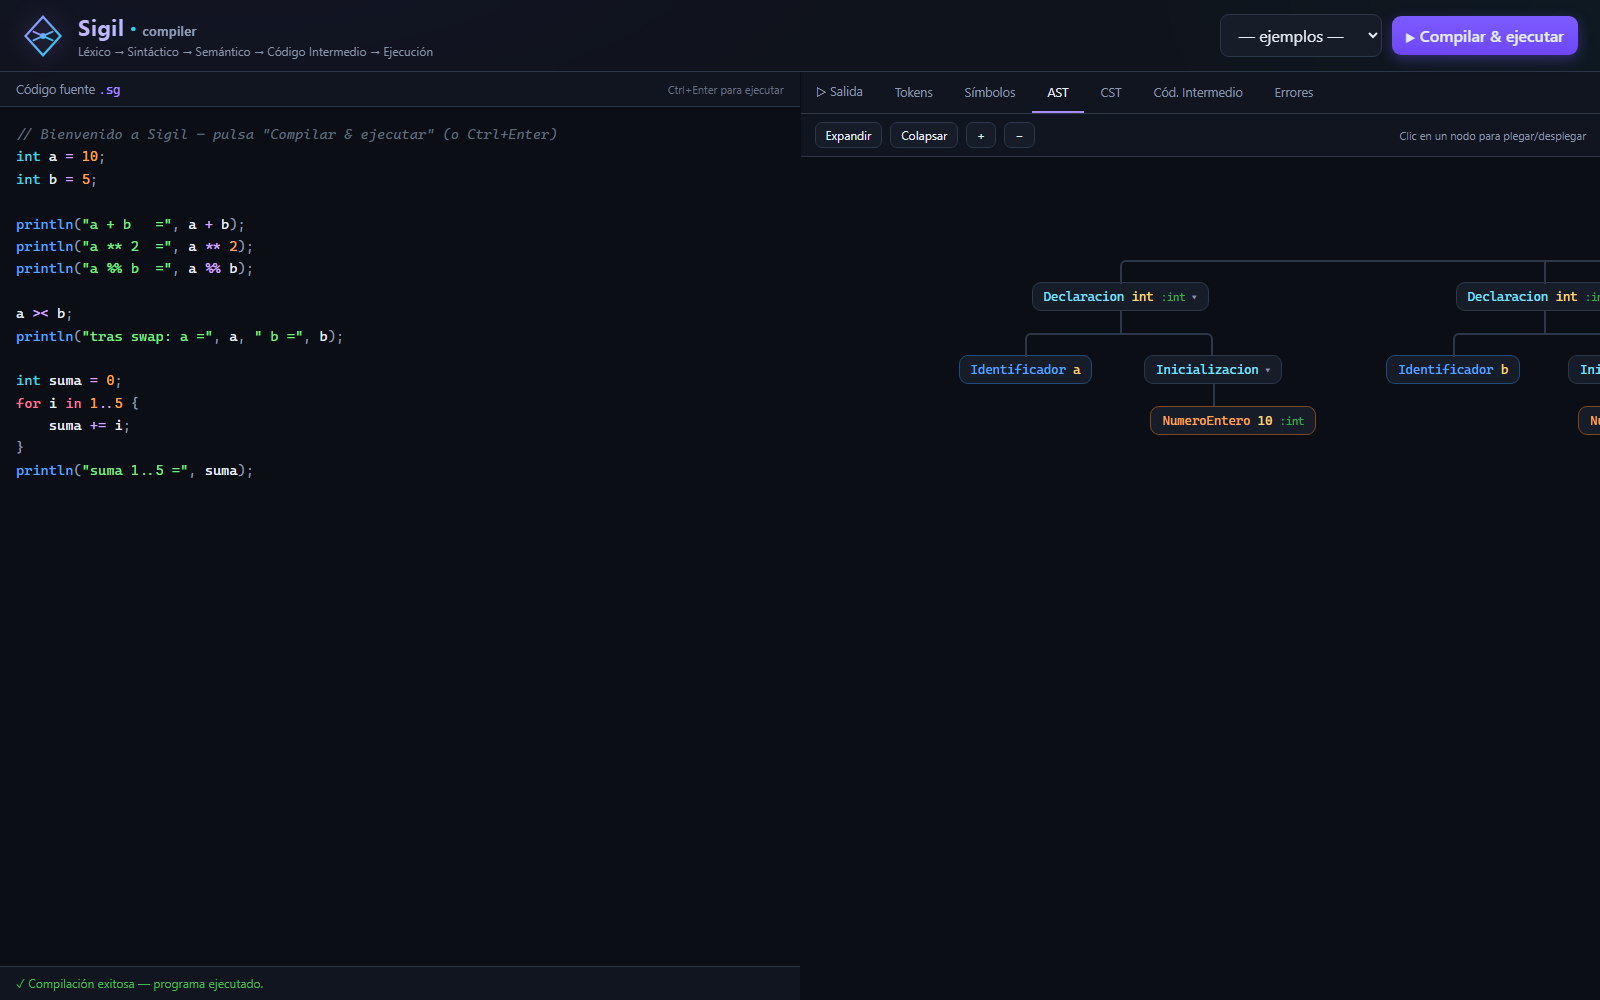
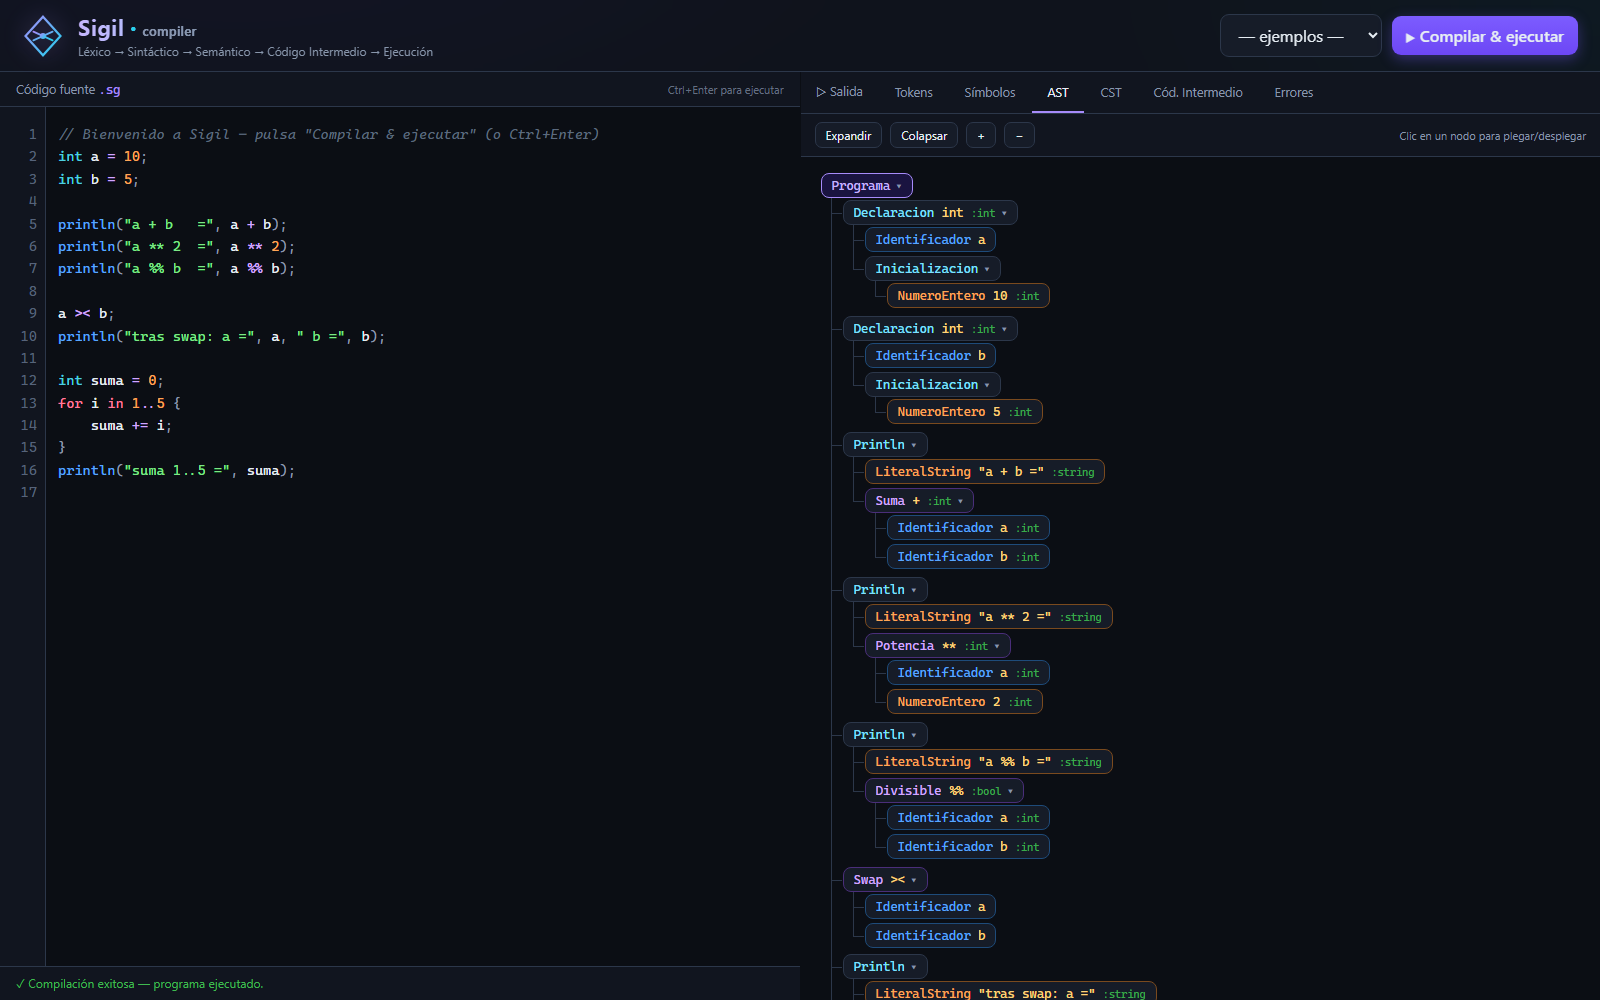
feat(web): arboles AST/CST en vista lateral indentada (mas legible)

diff --git a/web/style.css b/web/style.css
@@ -169,31 +169,29 @@ td.mono { font-family: var(--mono); }
 .mini { padding: 4px 10px; font-size: 12px; border-radius: 7px; background: var(--bg3); border: 1px solid var(--border2); }
 .mini:hover { border-color: var(--accent); }
 .tt-hint { color: var(--muted); font-size: 11px; margin-left: auto; }
-.tree-scroll { flex: 1; overflow: auto; padding: 30px 20px; }
+.tree-scroll { flex: 1; overflow: auto; padding: 14px 18px; }
 
-.chart { display: inline-block; min-width: 100%; transform-origin: top left; }
-.chart ul { position: relative; padding-top: 22px; display: flex; justify-content: center; margin: 0; }
-.chart li { list-style: none; position: relative; padding: 22px 6px 0; text-align: center; }
-/* conectores */
-.chart li::before, .chart li::after {
-  content: ""; position: absolute; top: 0; right: 50%;
-  width: 50%; height: 22px; border-top: 2px solid var(--border2);
+/* Árbol indentado (hacia el costado, estilo explorador de archivos) */
+.chart { display: inline-block; min-width: 100%; transform-origin: top left; font-family: var(--mono); }
+.chart ul { list-style: none; margin: 0; padding-left: 22px; position: relative; }
+.chart > ul { padding-left: 2px; }
+.chart li { position: relative; padding: 2px 0; }
+/* guías de conexión: línea vertical + codo horizontal hacia cada nodo */
+.chart ul > li::before {
+  content: ""; position: absolute; left: -12px; top: 0;
+  width: 0; height: 100%; border-left: 1px solid var(--border2);
 }
-.chart li::after { right: auto; left: 50%; border-left: 2px solid var(--border2); }
-.chart li:only-child::after, .chart li:only-child::before { display: none; }
-.chart li:only-child { padding-top: 0; }
-.chart li:first-child::before, .chart li:last-child::after { border: 0 none; }
-.chart li:last-child::before { border-right: 2px solid var(--border2); border-radius: 0 6px 0 0; }
-.chart li:first-child::after { border-radius: 6px 0 0 0; }
-.chart ul ul::before {
-  content: ""; position: absolute; top: 0; left: 50%;
-  border-left: 2px solid var(--border2); width: 0; height: 22px;
+.chart ul > li:last-child::before { height: 15px; }         /* la vertical termina en el codo */
+.chart ul > li::after {
+  content: ""; position: absolute; left: -12px; top: 15px;
+  width: 11px; height: 0; border-top: 1px solid var(--border2);
 }
+.chart > ul > li::before, .chart > ul > li::after { display: none; }  /* la raíz no lleva guía */
 .chart li.collapsed > ul { display: none; }
 
 .node {
   display: inline-block; position: relative; cursor: default;
-  padding: 6px 11px; border-radius: 9px; font-family: var(--mono); font-size: 12.5px;
+  padding: 4px 10px; border-radius: 8px; font-family: var(--mono); font-size: 12.5px;
   background: var(--bg3); border: 1px solid var(--border2); white-space: nowrap;
   transition: .12s;
 }